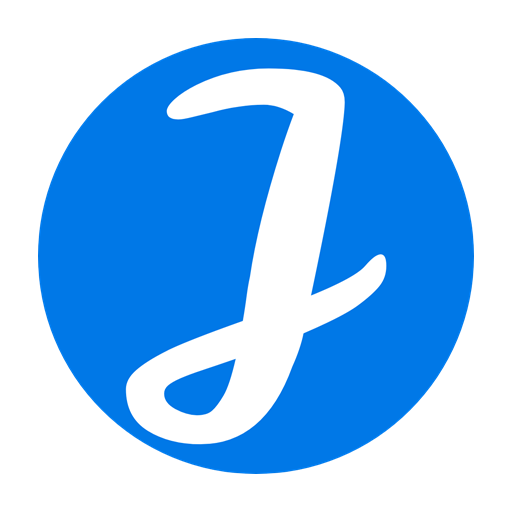
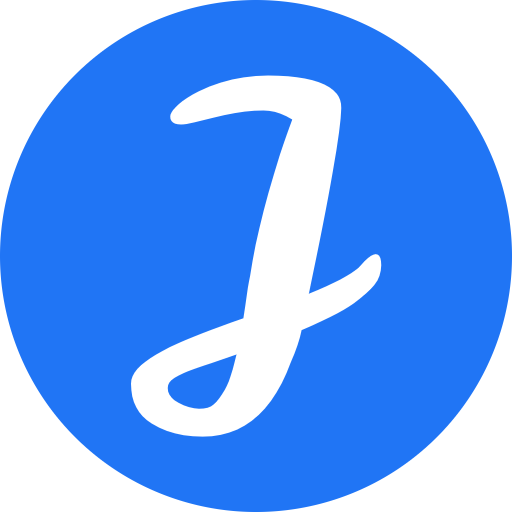
Fixed?

diff --git a/client/index.html b/client/index.html
@@ -6,7 +6,7 @@
     <link rel="stylesheet" href="/styles.css" inline>
     <link rel="manifest" href="/manifest.json">
     <meta name="apple-mobile-web-app-capable" content="yes">
-    <!-- logo service: favicon.io, font: Leckerli One -->
+    <!-- logo service: favicon.io, color: #2075f5, font: Leckerli One, font size: 90 -->
     <link rel="apple-touch-icon" sizes="120x120" href="/icon-square-120.png">
     <title>Journalize</title>
   </head>

diff --git a/client/js/sw.js b/client/js/sw.js
@@ -2,7 +2,7 @@ const CACHE = 'preact-journal';
 
 self.addEventListener('install', e => {
   e.waitUntil(caches.open(CACHE).then(cache => {
-    cache.addAll(['/', '/manifest.json', '/version', '/favicon.ico', '/icon-1024.png']);
+    cache.addAll(['/', '/manifest.json', '/version', '/favicon.ico', '/icon-512.png']);
   }));
 });
 
